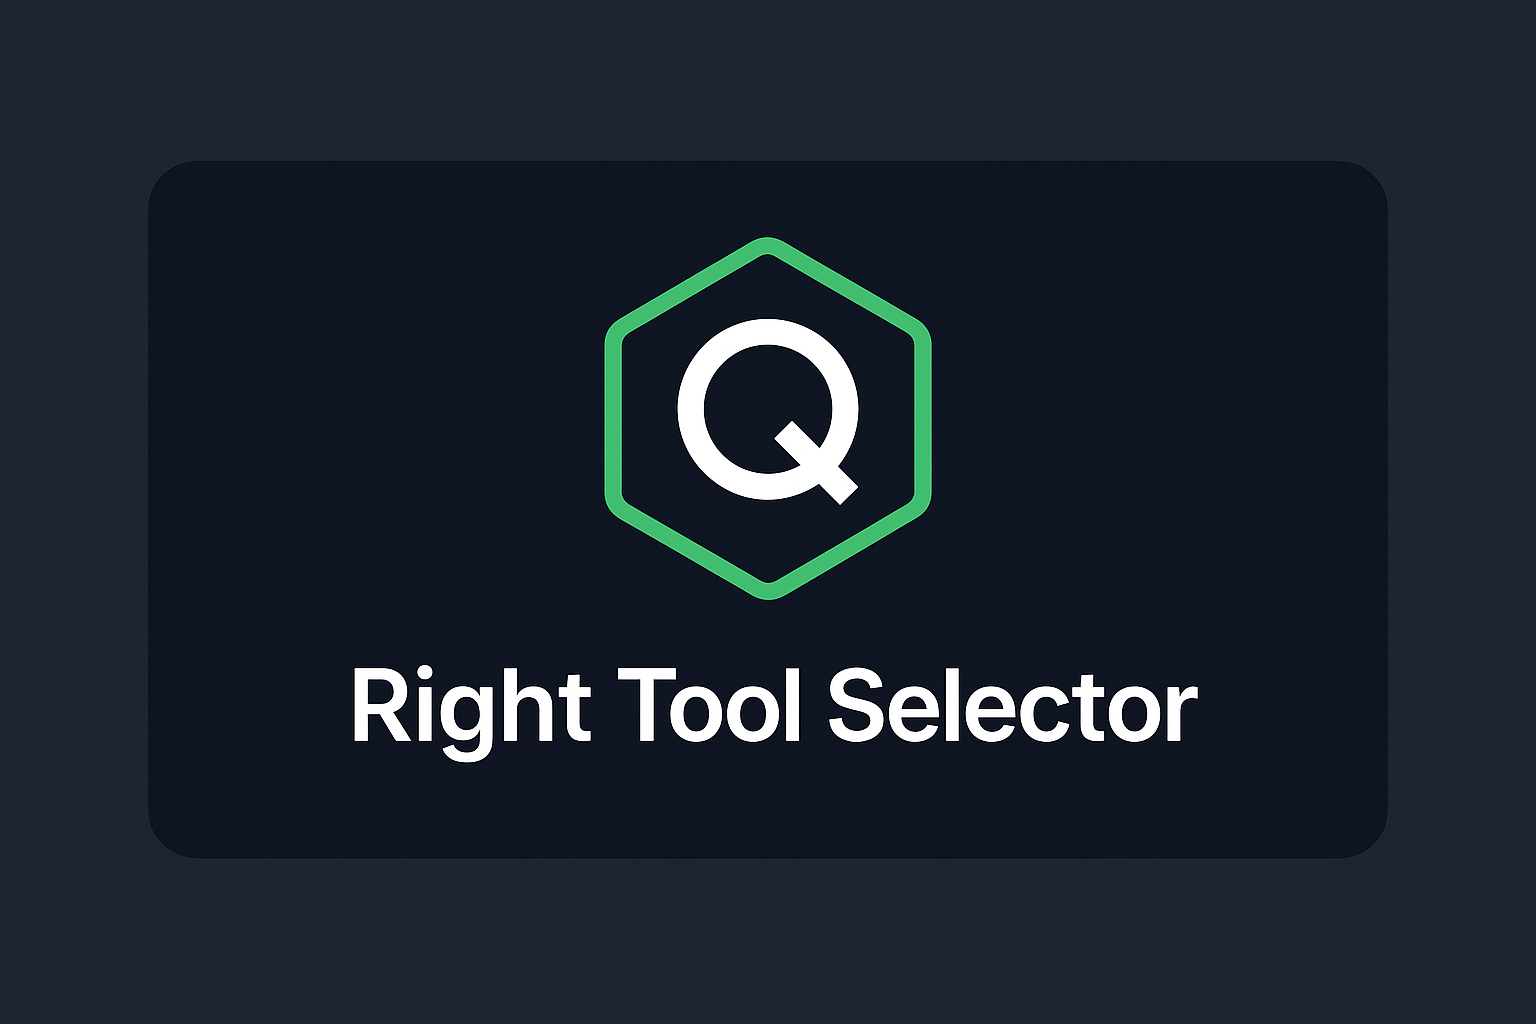
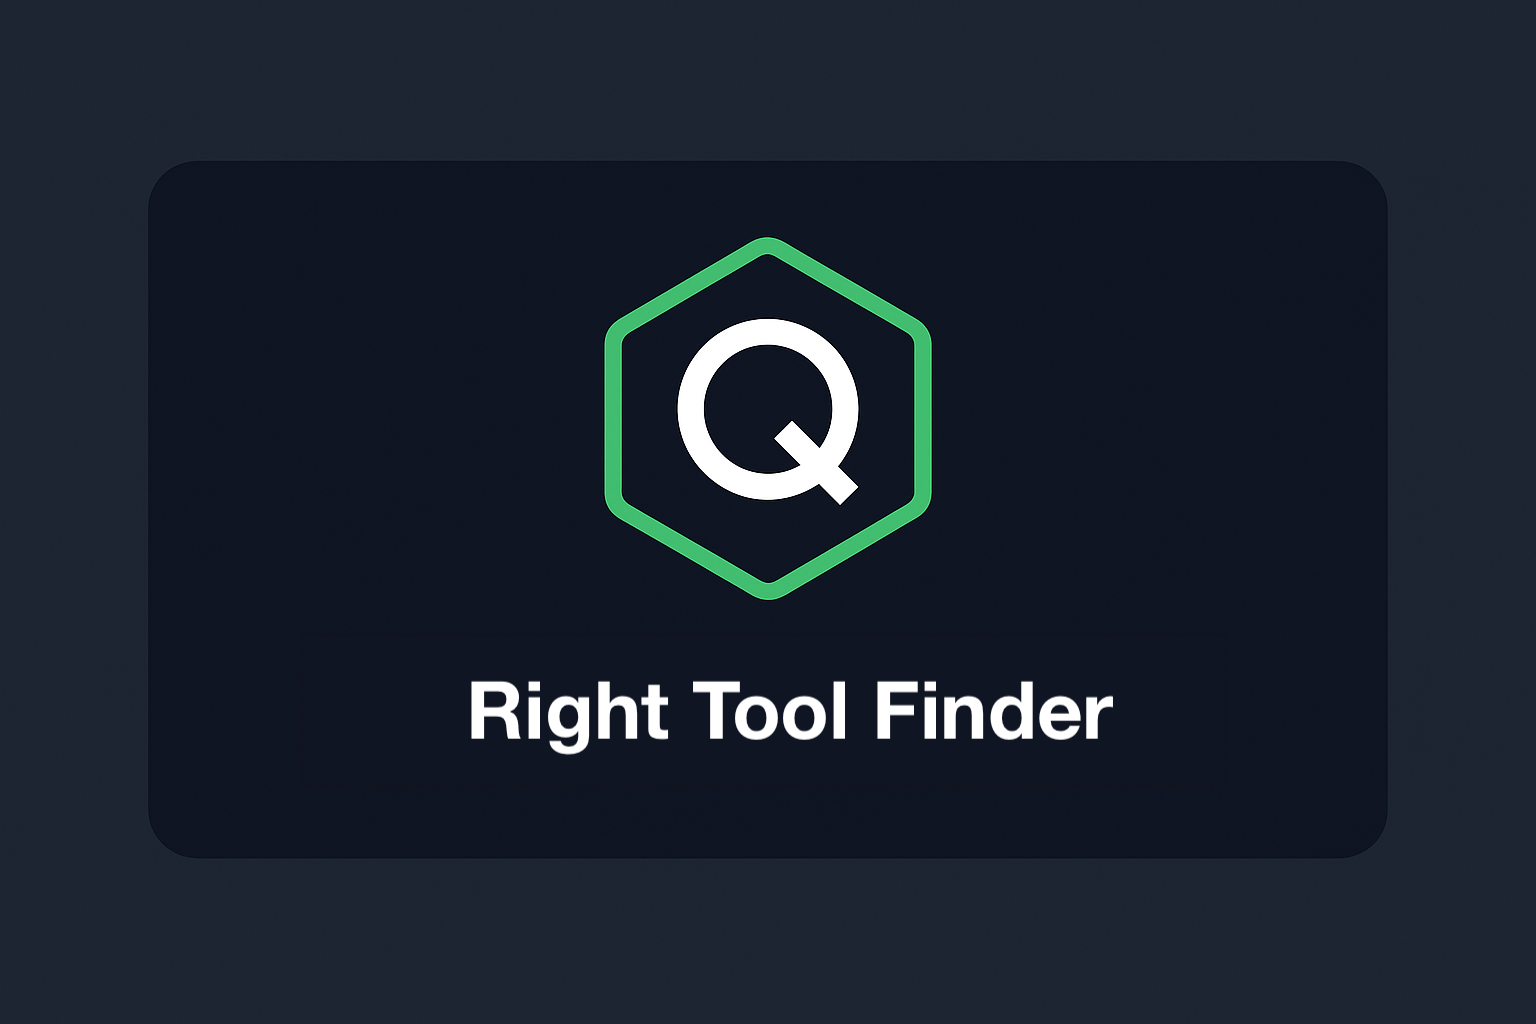
reuse header

Changed region(s): [[0.2188, 0.625, 0.7812, 0.75]]

diff --git a/src/components/HeroHeader.tsx b/src/components/HeroHeader.tsx
@@ -1,0 +1,142 @@
+import * as React from "react";
+
+type Variant = "dark" | "light";
+type Tone = "emerald" | "indigo" | "slate";
+
+export type HeroHeaderProps = {
+  /** Visual style */
+  variant?: Variant;
+  /** Small eyebrow text above the title (optional) */
+  eyebrow?: string;
+  /** Main title */
+  title: string;
+  /** Supporting paragraph */
+  intro?: string;
+  /** Optional badge (e.g., Frontend / Backend) */
+  badge?: { text: string; tone?: Tone };
+  /** Small meta line (e.g., “14 questions · 5 options”) */
+  meta?: string;
+  /** CTA buttons or links */
+  actions?: React.ReactNode;
+  /** Extra content rendered below the main block (e.g., option pills) */
+  children?: React.ReactNode;
+  className?: string;
+};
+
+function cx(...xs: Array<string | false | null | undefined>) {
+  return xs.filter(Boolean).join(" ");
+}
+
+const VARIANT = {
+  dark: "bg-gradient-to-br from-slate-900 to-slate-800 text-white border-slate-800",
+  light: "bg-white text-slate-900 border-slate-200",
+} as const;
+
+const BADGE: Record<Tone, string> = {
+  emerald: "bg-emerald-50 text-emerald-700 ring-emerald-200",
+  indigo: "bg-indigo-50 text-indigo-700 ring-indigo-200",
+  slate: "bg-slate-100 text-slate-800 ring-slate-200",
+};
+
+export default function HeroHeader({
+  variant = "light",
+  eyebrow,
+  title,
+  intro,
+  badge,
+  meta,
+  actions,
+  children,
+  className,
+}: HeroHeaderProps) {
+  return (
+    <header
+      className={cx(
+        "relative mb-8 overflow-hidden rounded-3xl border p-8 shadow-sm sm:p-12",
+        VARIANT[variant],
+        className
+      )}
+    >
+      {/* subtle flare only on dark */}
+      {variant === "dark" && (
+        <div
+          aria-hidden
+          className="pointer-events-none absolute -top-24 -right-20 h-72 w-72 rounded-full bg-white/10 blur-3xl"
+        />
+      )}
+
+      <div className="relative z-10">
+        {(eyebrow || badge) && (
+          <div className="mb-3 flex flex-wrap items-center gap-2">
+            {eyebrow && (
+              <span
+                className={cx(
+                  "rounded-full px-2.5 py-0.5 text-xs font-semibold ring-1 ring-inset",
+                  variant === "dark"
+                    ? "bg-white/10 text-white ring-white/20"
+                    : "bg-slate-100 text-slate-800 ring-slate-200"
+                )}
+              >
+                {eyebrow}
+              </span>
+            )}
+            {badge && (
+              <span
+                className={cx(
+                  "rounded-full px-2.5 py-0.5 text-xs font-medium ring-1 ring-inset",
+                  BADGE[badge.tone ?? "slate"]
+                )}
+                title={badge.text}
+              >
+                {badge.text}
+              </span>
+            )}
+          </div>
+        )}
+
+        <h1 className={cx("text-3xl font-semibold tracking-tight", variant === "dark" ? "sm:text-4xl" : "sm:text-3xl")}>
+          {title}
+        </h1>
+
+        {intro && (
+          <p
+            className={cx(
+              "mt-3 max-w-2xl",
+              variant === "dark" ? "text-slate-200" : "text-slate-600"
+            )}
+          >
+            {intro}
+          </p>
+        )}
+
+        {(meta || actions) && (
+          <div className="mt-4 flex flex-wrap items-center gap-3">
+            {meta && (
+              <span
+                className={cx(
+                  "text-xs",
+                  variant === "dark" ? "text-slate-300" : "text-slate-500"
+                )}
+              >
+                {meta}
+              </span>
+            )}
+            {actions && <div className="ml-auto flex gap-2">{actions}</div>}
+          </div>
+        )}
+      </div>
+
+      {/* Extra content */}
+      {children && (
+        <div
+          className={cx(
+            "relative z-10 mt-5",
+            variant === "dark" ? "text-white" : "text-slate-900"
+          )}
+        >
+          {children}
+        </div>
+      )}
+    </header>
+  );
+}

diff --git a/src/routes/Quiz.tsx b/src/routes/Quiz.tsx
@@ -4,14 +4,14 @@ import { pct } from "../lib/utils";
 import ProgressBar from "../components/ProgressBar";
 import QuestionCard from "../components/QuestionCard";
 import ResultCard from "../components/ResultCard";
-import QuizHeader from "../components/QuizHeader";
+import HeroHeader from "../components/HeroHeader";
 
 export default function GenericQuiz<Options extends readonly string[]>({
   quiz,
 }: { quiz: QuizModule<Options> }) {
   type OptionKey = Options[number];
 
-  const { questions, options, header, slug } = quiz;
+  const { questions, options, slug } = quiz;
   const [answers, setAnswers] = useState<(boolean | null)[]>(Array(questions.length).fill(null));
   const [submitted, setSubmitted] = useState(false);
   const [expanded, setExpanded] = useState<OptionKey | null>(null);
@@ -50,11 +50,30 @@ export default function GenericQuiz<Options extends readonly string[]>({
         onClick={() => (window.location.hash = `#/`)}
         className="mb-4 inline-flex items-center gap-2 text-sm font-medium text-slate-700 underline underline-offset-4 cursor-pointer"
       >← Back to homepage</button>
-    <QuizHeader
-        title={header.title}
-        intro={header.intro}
-        options={options.map((o) => ({ short: o.short, long: o.long }))}
-    />
+    <HeroHeader
+        variant="light"
+        title={quiz.header.title}
+        intro={quiz.header.intro}
+        badge={{
+            text: quiz.area === "frontend" ? "Frontend" : "Backend",
+            tone: quiz.area === "frontend" ? "emerald" : "indigo",
+        }}
+        meta={`${quiz.questions.length} questions · ${quiz.options.length} options`}
+    >
+        {/* Option pills */}
+        <ul className="mt-6 flex flex-wrap gap-2">
+          {options.map((o) => (
+            <li
+              key={o.short}
+              className="rounded-full bg-slate-100 px-3 py-1 text-sm leading-6 ring-1 ring-inset ring-slate-200 text-slate-800"
+              title={o.long}
+            >
+              <span className="font-medium">{o.short}</span>
+              <span className="opacity-80"> — {o.long}</span>
+            </li>
+          ))}
+        </ul>
+    </HeroHeader>
 
       <div className="mb-6"><ProgressBar percent={pct(completeness)} /></div>
 

diff --git a/src/routes/Home.tsx b/src/routes/Home.tsx
@@ -1,5 +1,6 @@
 import { QUIZZES } from "../registry";
 import { hrefQuiz } from "../lib/router";
+import HeroHeader from "../components/HeroHeader";
 
 const AREA_STYLES: Record<"frontend" | "backend", string> = {
   frontend: "bg-emerald-50 text-emerald-700 ring-emerald-200",
@@ -11,20 +12,12 @@ export default function Home() {
 
   return (
     <main className="mx-auto max-w-5xl px-4 py-10">
-      {/* Hero */}
-      <section className="relative mb-10 overflow-hidden rounded-3xl border border-slate-200 bg-gradient-to-br from-slate-900 to-slate-800 p-8 text-white shadow-lg sm:p-12">
-        <div
-          aria-hidden
-          className="pointer-events-none absolute -top-24 -right-20 h-72 w-72 rounded-full bg-white/10 blur-3xl"
-        />
-        <h1 className="text-3xl font-semibold tracking-tight sm:text-4xl">
-          Right Tool Finder — Tech Quizzes
-        </h1>
-        <p className="mt-3 max-w-2xl text-slate-200">
-          Quick, opinionated quizzes that map your requirements and constraints to practical tech stack and tool choices.
-          Pick a quiz, answer a few yes/no questions, and get tailored suggestions.
-        </p>
-      </section>
+      <HeroHeader
+        variant="dark"
+        title="Tech Quizzes - Pick the Right Tools"
+        intro="Quick, opinionated quizzes that map your requirements and constraints to practical tech stack and tool choices.
+          Pick a quiz, answer a few yes/no questions, and get tailored suggestions."
+      />
 
       {/* Cards */}
       <section className="grid gap-6 md:grid-cols-2">

diff --git a/src/components/SEO.tsx b/src/components/SEO.tsx
@@ -2,9 +2,9 @@ import type { QuizModule } from "../types/Question";
 import type { Route } from "../lib/router";
 
 const SITE = {
-  url: "https://adamcorina.github.io",
+  url: "https://tech-quizzes.velea.cc",
   name: "Right Tool Finder",
-  ogImage: "https://adamcorina.github.io/og.png",
+  ogImage: "https://tech-quizzes.velea.cc/og.png",
   twitterCard: "summary_large_image",
 };
 
